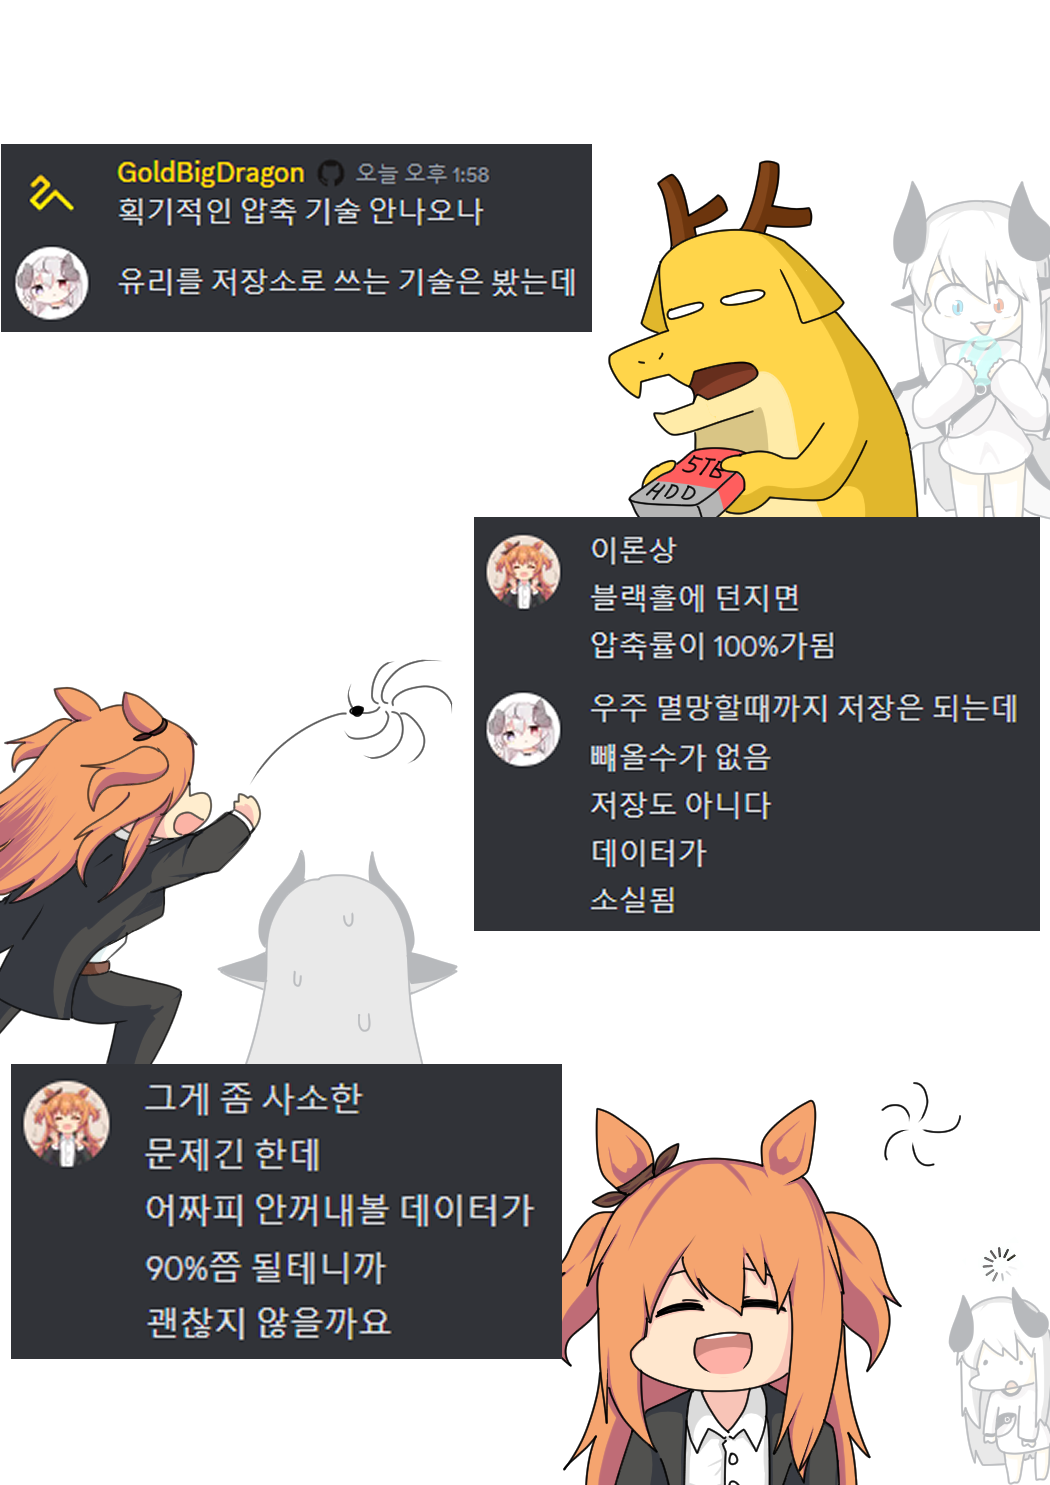
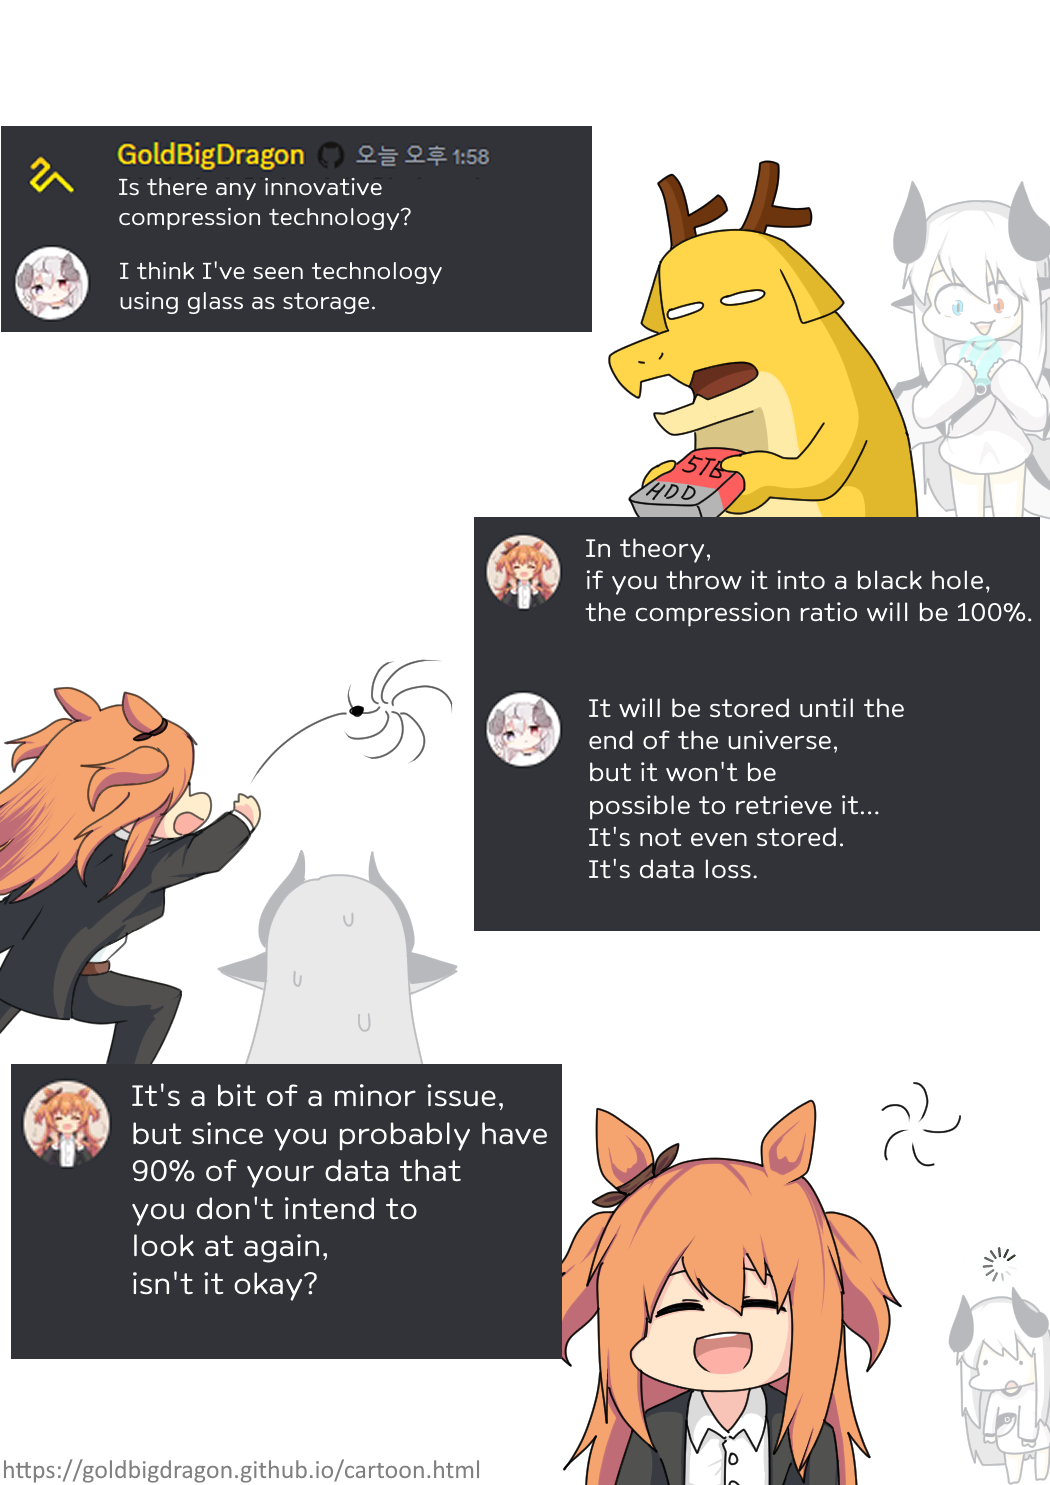
Daily touch

diff --git a/templates/service/chainalysis-api.html b/templates/service/chainalysis-api.html
@@ -10,7 +10,8 @@
 		<meta http-equiv="Cache-Control" content="no-cache">
 		<meta charset="UTF-8" />
 		<link rel="icon" type="image/x-icon" href="/resources/img/favicon.ico" />
-		<title>GoldBigDragon - Service</title>
+		<title>GoldBigDragon - Chainalysis API</title>
+
 		<link rel="stylesheet" href="/resources/vendor/fontawesome-free/css/all.min.css" />
 		<link rel="stylesheet" href="/resources/vendor/bootstrap/bootstrap.css" />
 		<link rel="stylesheet" href="/resources/css/service.css" />
@@ -20,7 +21,34 @@
 		<div class="row" id="header"></div>
 		<div class="row" style="margin-top:6rem; margin-bottom:1rem; display:flex; justify-content: center; align-items: flex-start;">
 			<div class="col-1"></div>
-			<div class="col" id="contents"></div>
+			<style>
+				.key-area{
+					display: flex;
+					justify-content: center;
+					align-items: center;
+					max-width: 10rem;
+				}
+				input{
+					max-width: 30rem !important;
+				}
+			</style>
+			<div class="col" id="contents">
+				<div class="row">
+					
+				</div>
+				<div class="row">
+					<div class="col">
+						<div class="row">
+							<div class="col key-area">Result Name</div>
+							<input class="col">
+						</div>
+						<div class="row">
+							<div class="col key-area">IAPI Token Key</div>
+							<input class="col" type="password">
+						</div>
+					</div>
+				</div>
+			</div>
 			<div class="col-1"></div>
 		</div>
 		<div class="row" id="footer"></div>
@@ -31,7 +59,6 @@
 	<script src="/resources/vendor/bootstrap/bootstrap.5.1.3.bundle.min.js"></script>
 	
 	<script src="/resources/js/basic.js"></script>
-	<script src="/resources/lang/service.js"></script>
-	<script src="/resources/data/service/service_list.js"></script>
-	<script src="/resources/js/service.js"></script>
+	<script src="/resources/lang/service/chainalysis-api.js"></script>
+	<script src="/resources/js/service/chainalysis-api.js"></script>
 </html>

diff --git a/resources/data/cartoon/cartoon_list.js b/resources/data/cartoon/cartoon_list.js
@@ -8,11 +8,11 @@ const CARTOON_LIST = [
 			"ru":"Чат- комната разработчиков"
 		},
 		"translating":{
-			"en":"Translating (61/234)",
+			"en":"Translating (64/234)",
 			"kr":"번역 완료",
-			"jp":"翻訳中 (61/234)",
-			"cn":"翻译 (61/234)",
-			"ru":"Перевод (61/234)"
+			"jp":"翻訳中 (64/234)",
+			"cn":"翻译 (64/234)",
+			"ru":"Перевод (64/234)"
 		},
 		"uid":"developer",
 		"pages": [

diff --git a/resources/lang/service/chainalysis-api.js b/resources/lang/service/chainalysis-api.js
@@ -1,0 +1,10 @@
+const CHAINALYSIS_API = {
+	"TITLE": {
+		"en": "",
+		"kr": "",
+		"jp": "",
+		"cn": "",
+		"ru": ""
+	}
+}
+LANGUAGE_OBJECT["CHAINALYSIS_API_LANG"] = CHAINALYSIS_API;
